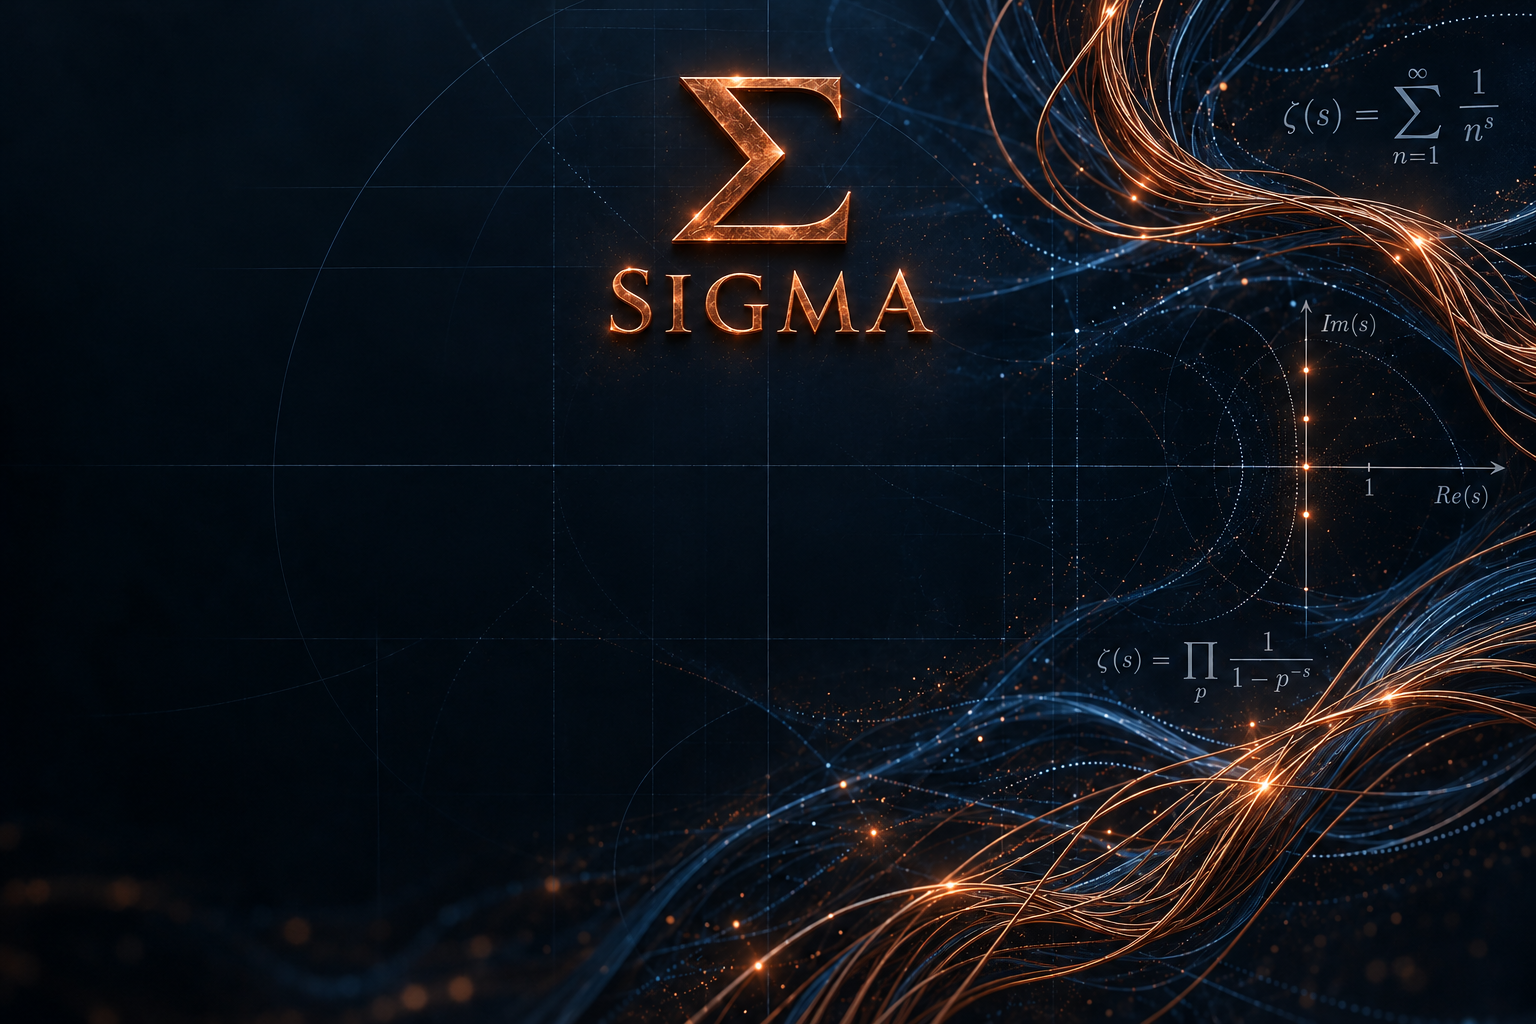
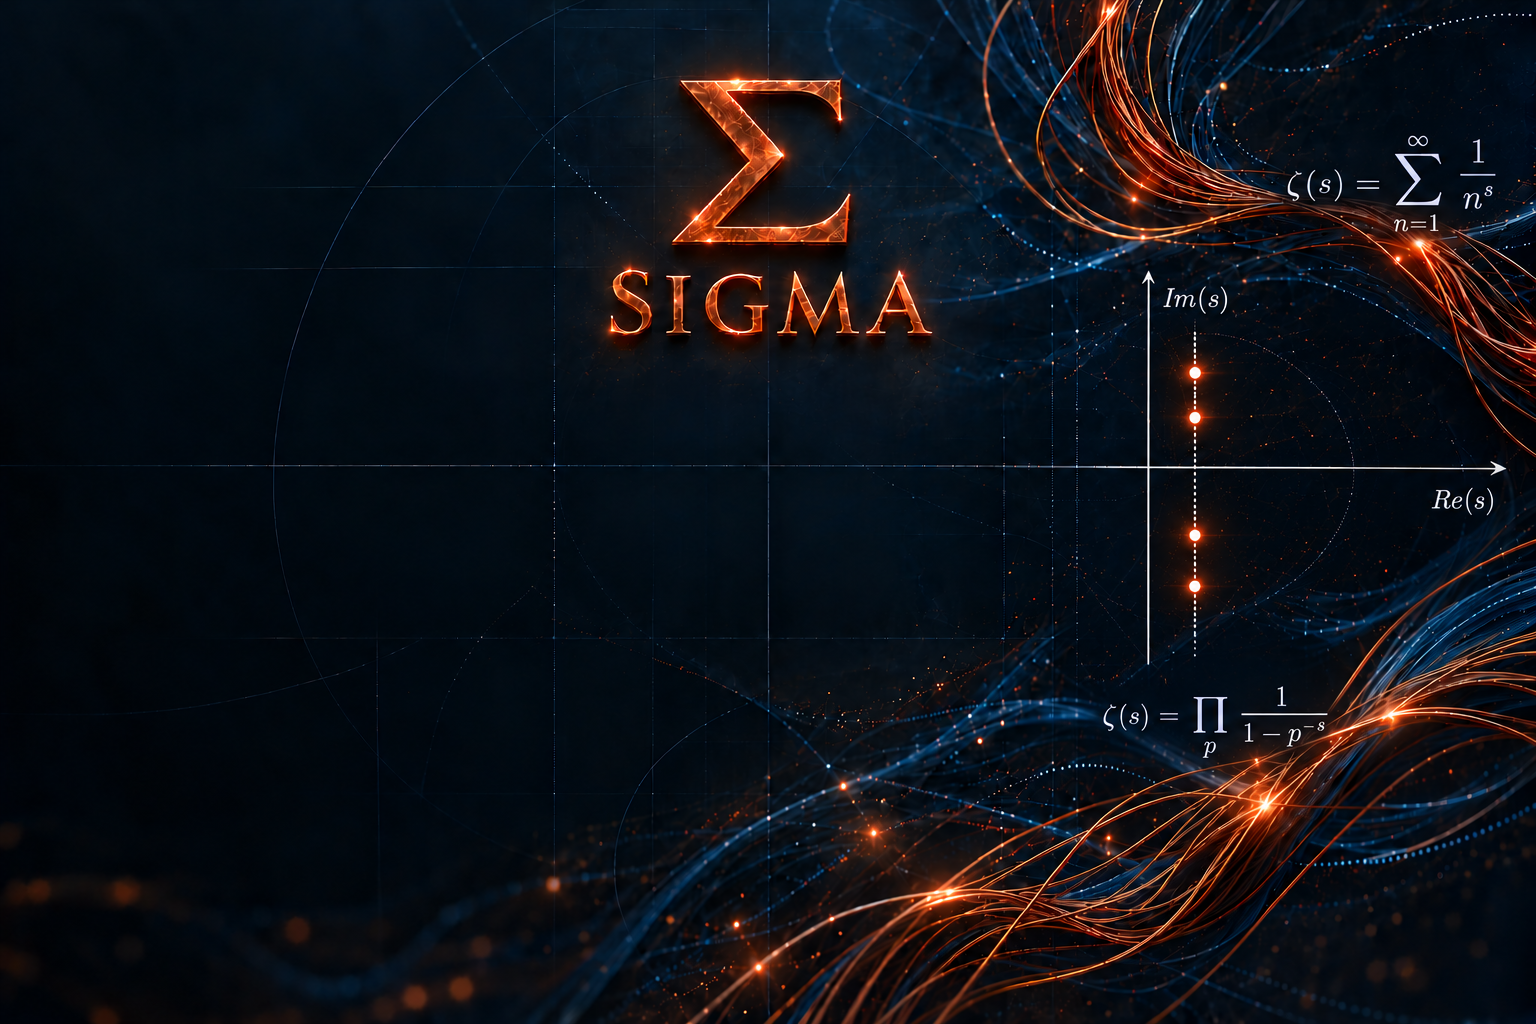
Restore Red copper Home artwork and interactive About acceptance checks

diff --git a/browser_checks/about_dialog_acceptance.py b/browser_checks/about_dialog_acceptance.py
@@ -1,0 +1,160 @@
+"""Real Chrome acceptance for the Home About dialog, including narrow and touch layouts."""
+import json
+import os
+from urllib.parse import urlsplit
+
+from playwright.sync_api import expect, sync_playwright
+
+URL = os.environ.get("SIGMA_BROWSER_BASE_URL", "http://127.0.0.1:5196")
+
+
+def main() -> None:
+    with sync_playwright() as playwright:
+        browser = playwright.chromium.launch(
+            executable_path=os.environ.get("SIGMA_BROWSER_EXECUTABLE", "/Applications/Google Chrome.app/Contents/MacOS/Google Chrome"),
+            headless=True,
+        )
+        try:
+            context = browser.new_context(viewport={"width": 1440, "height": 960})
+            page = context.new_page()
+            errors: list[str] = []
+            page.on("pageerror", lambda error: errors.append(str(error)))
+
+            def home_data(route):
+                path = urlsplit(route.request.url).path
+                if path == "/api/projects/recent":
+                    route.fulfill(status=200, content_type="application/json", body=json.dumps({"projects": []}))
+                elif path == "/api/ai/connection":
+                    route.fulfill(status=200, content_type="application/json", body=json.dumps({"mode": "chatgpt", "status": "disconnected", "label": "Connect AI", "guidance": "Manual research is always available.", "checked_at": None, "ttl_seconds": 60, "accounts": [], "active_account": None}))
+                else:
+                    route.continue_()
+
+            page.route("**/api/**", home_data)
+            page.goto(URL)
+            expect(page.get_by_role("heading", name="Projects")).to_be_visible()
+            opener = page.get_by_role("button", name="About")
+            for width, height in ((1440, 960), (390, 844), (320, 740)):
+                page.set_viewport_size({"width": width, "height": height})
+                credit = page.locator(".home-art-credit")
+                expect(credit).to_be_visible()
+                assert credit.evaluate("e => getComputedStyle(e).textTransform") == "capitalize"
+                opener.click()
+                dialog = page.get_by_role("dialog", name="About SIGMA")
+                expect(dialog).to_be_visible()
+                page.screenshot(path=f"/tmp/sigma-about-collapsed-{width}.png", full_page=False)
+                expect(dialog.locator(".about-intro")).to_be_visible()
+                expect(dialog.locator(".about-terms")).to_be_visible()
+                expect(dialog.locator("details")).to_have_count(2)
+                region = dialog.locator("details").filter(has=page.locator("summary", has_text="Key Features"))
+                expect(region).to_have_count(1)
+                expect(region).not_to_have_attribute("open", "")
+                region.locator("summary").click()
+                expect(region).to_have_attribute("open", "")
+                architecture = dialog.locator(".about-architecture-disclosure")
+                architecture.locator("summary").click()
+                expect(architecture).to_have_attribute("open", "")
+                expect(dialog.locator("#about-architecture-details")).to_be_visible()
+                expect(dialog.locator(".about-intro")).to_contain_text("research workbench for exploring answers")
+                expect(dialog.locator(".about-terms")).to_have_text("Strategies set direction. Sessions investigate. Outcomes assess. Reports communicate.")
+                for title in ("Multi-Strategy Exploration", "Multiple Research Agents", "Research History", "Experimental LaTeX Paper Generation"):
+                    expect(dialog.get_by_role("heading", name=title, exact=True)).to_be_visible()
+                expect(dialog.locator(".about-build-commit")).to_contain_text(__import__("re").compile(r"Build [0-9a-f]{7}"))
+                expect(dialog.locator(".about-session-toggle")).to_have_attribute("aria-expanded", "false")
+                session_toggle = dialog.locator(".about-session-toggle")
+                expect(session_toggle).to_contain_text("Show Me")
+                expect(session_toggle).to_have_count(1)
+                session_toggle.hover()
+                agent_toggle_style = session_toggle.evaluate("e => ({background: getComputedStyle(e).backgroundImage, text: getComputedStyle(e).color})")
+                assert "50, 117, 164" in agent_toggle_style["background"] and agent_toggle_style["text"] == "rgb(255, 255, 255)", (width, agent_toggle_style)
+                arrow_box = dialog.locator(".about-agent-review-arrow").bounding_box()
+                button_box = session_toggle.bounding_box()
+                assert arrow_box and button_box and arrow_box["width"] > button_box["width"], (width, arrow_box, button_box)
+                assert button_box["x"] < arrow_box["x"] + arrow_box["width"] and button_box["x"] + button_box["width"] > arrow_box["x"], (width, arrow_box, button_box)
+                session_toggle.click()
+                expect(session_toggle).to_have_attribute("aria-expanded", "true")
+                expect(session_toggle).to_have_text("Hide")
+                details = dialog.locator("#about-session-details")
+                expect(details.locator(".about-multi-agent-intro")).to_contain_text("specialist AI agents")
+                expect(details.locator(".about-multi-agent-intro")).to_contain_text("Investigators return with the critique")
+                expect(dialog.locator(".about-strategy-parallel-note")).to_contain_text("advance side by side")
+                expect(details.get_by_role("heading", name="One investigation. Multiple agent turns.")).to_be_visible()
+                expect(details.locator(".about-agent-turn")).to_have_count(3)
+                expect(details.locator(".about-agent-turn .about-diagram-node-title", has_text="Investigator")).to_have_count(2)
+                expect(details.locator(".about-agent-turn .about-diagram-node-title", has_text="Skeptic")).to_have_count(1)
+                expect(details.locator(".about-agent-return")).to_contain_text("critique feeds the next Investigator turn")
+                expect(details.locator(".about-agent-return svg path")).to_have_count(1)
+                expect(details.locator(".about-agent-instantiation-note")).to_contain_text("complete recoverability and auditing")
+                expect(details.locator(".about-multiple-sessions-note")).to_contain_text("revisit a strategy with new evidence")
+                expect(details.locator(".about-multiple-sessions-note")).to_contain_text("compare results over time")
+                expect(details.get_by_text("Coordinator", exact=False)).to_have_count(0)
+                expanded_style = details.evaluate("e => ({background: getComputedStyle(e).backgroundImage, border: getComputedStyle(e).borderColor})")
+                assert "20, 43, 61" in expanded_style["background"] and expanded_style["border"] == "rgb(76, 131, 168)", (width, expanded_style)
+                page.screenshot(path=f"/tmp/sigma-about-agents-expanded-{width}.png", full_page=False)
+                session_toggle.click()
+                expect(session_toggle).to_have_attribute("aria-expanded", "false")
+                # Help affordances are separate from expansion controls.
+                strategy_a = dialog.locator('[data-about-info-node="strategyA"]')
+                page.mouse.move(5, 5)
+                page.wait_for_timeout(160)
+                strategy_a.scroll_into_view_if_needed()
+                page.wait_for_timeout(220)
+                strategy_node = strategy_a.locator(".about-strategy-node")
+                strategy_a.hover()
+                expect(dialog.get_by_role("tooltip")).to_be_visible()
+                before_hover = strategy_node.bounding_box()
+                hover_style = strategy_node.evaluate("e => ({background: getComputedStyle(e).backgroundImage, title: getComputedStyle(e.querySelector('.about-diagram-node-title')).color, subtitle: getComputedStyle(e.querySelector('.about-diagram-node-subtitle')).color})")
+                assert hover_style["background"] != "none", (width, hover_style)
+                assert hover_style["title"] == "rgb(240, 201, 153)" and hover_style["subtitle"] == "rgb(185, 194, 204)", (width, hover_style)
+                tip = dialog.get_by_role("tooltip")
+                expect(tip).to_be_visible()
+                assert "objective is bounded" in tip.inner_text(), (width, tip.inner_text())
+                tipbox = tip.bounding_box()
+                assert tipbox and tipbox["x"] >= 0 and tipbox["x"] + tipbox["width"] <= width, (width, tipbox)
+                dialog_box = dialog.bounding_box()
+                assert dialog_box and tipbox["y"] >= dialog_box["y"] and tipbox["y"] + tipbox["height"] <= dialog_box["y"] + dialog_box["height"], (width, dialog_box, tipbox)
+                after_hover = strategy_node.bounding_box()
+                assert after_hover and abs(before_hover["y"] - after_hover["y"]) < 1, (width, before_hover, after_hover, dialog.evaluate("e => e.scrollTop"), page.evaluate("scrollY"), tipbox)
+                page.screenshot(path=f"/tmp/sigma-about-hover-popup-{width}.png")
+                page.keyboard.press("Escape")
+                expect(dialog.get_by_role("tooltip")).to_have_count(0)
+                architecture.locator("summary").focus()
+                help_button = dialog.get_by_role("button", name="Explain Research Project")
+                help_button.focus()
+                expect(dialog.get_by_role("tooltip")).to_contain_text("central research question")
+                page.keyboard.press("Escape")
+                expect(dialog).to_be_visible()
+                page.screenshot(path=f"/tmp/sigma-about-expanded-{width}.png", full_page=False)
+                assert dialog.evaluate("e => e.scrollWidth <= e.clientWidth"), (width, "dialog overflow")
+                assert page.evaluate("document.documentElement.scrollWidth <= innerWidth"), (width, "page overflow")
+                page.get_by_role("button", name="Close", exact=True).click()
+                expect(dialog).to_have_count(0)
+                expect(opener).to_be_focused()
+            assert not errors, errors
+
+            touch = browser.new_context(viewport={"width": 390, "height": 844}, is_mobile=True, has_touch=True)
+            touch_page = touch.new_page()
+            touch_page.route("**/api/**", home_data)
+            touch_page.goto(URL)
+            touch_page.get_by_role("button", name="About").tap()
+            dialog = touch_page.get_by_role("dialog", name="About SIGMA")
+            arch = dialog.locator(".about-architecture-disclosure")
+            arch.locator("summary").tap()
+            expect(arch.locator("#about-architecture-details")).to_be_visible()
+            dialog.locator(".about-session-toggle").tap()
+            expect(dialog.locator("#about-session-details")).to_be_visible()
+            button = dialog.get_by_role("button", name="Explain Research Project")
+            button.tap()
+            expect(dialog.get_by_role("tooltip")).to_contain_text("central research question")
+            touch_page.keyboard.press("Escape")
+            expect(dialog.get_by_role("tooltip")).to_have_count(0)
+            await_closed = touch_page.get_by_role("button", name="Close", exact=True)
+            await_closed.tap()
+            expect(dialog).to_have_count(0)
+            touch.close()
+            print("About dialog Chrome acceptance passed at 1440, 390 and 320px; touch help interaction passed at 390px.")
+        finally:
+            browser.close()
+
+
+if __name__ == "__main__":
+    main()
